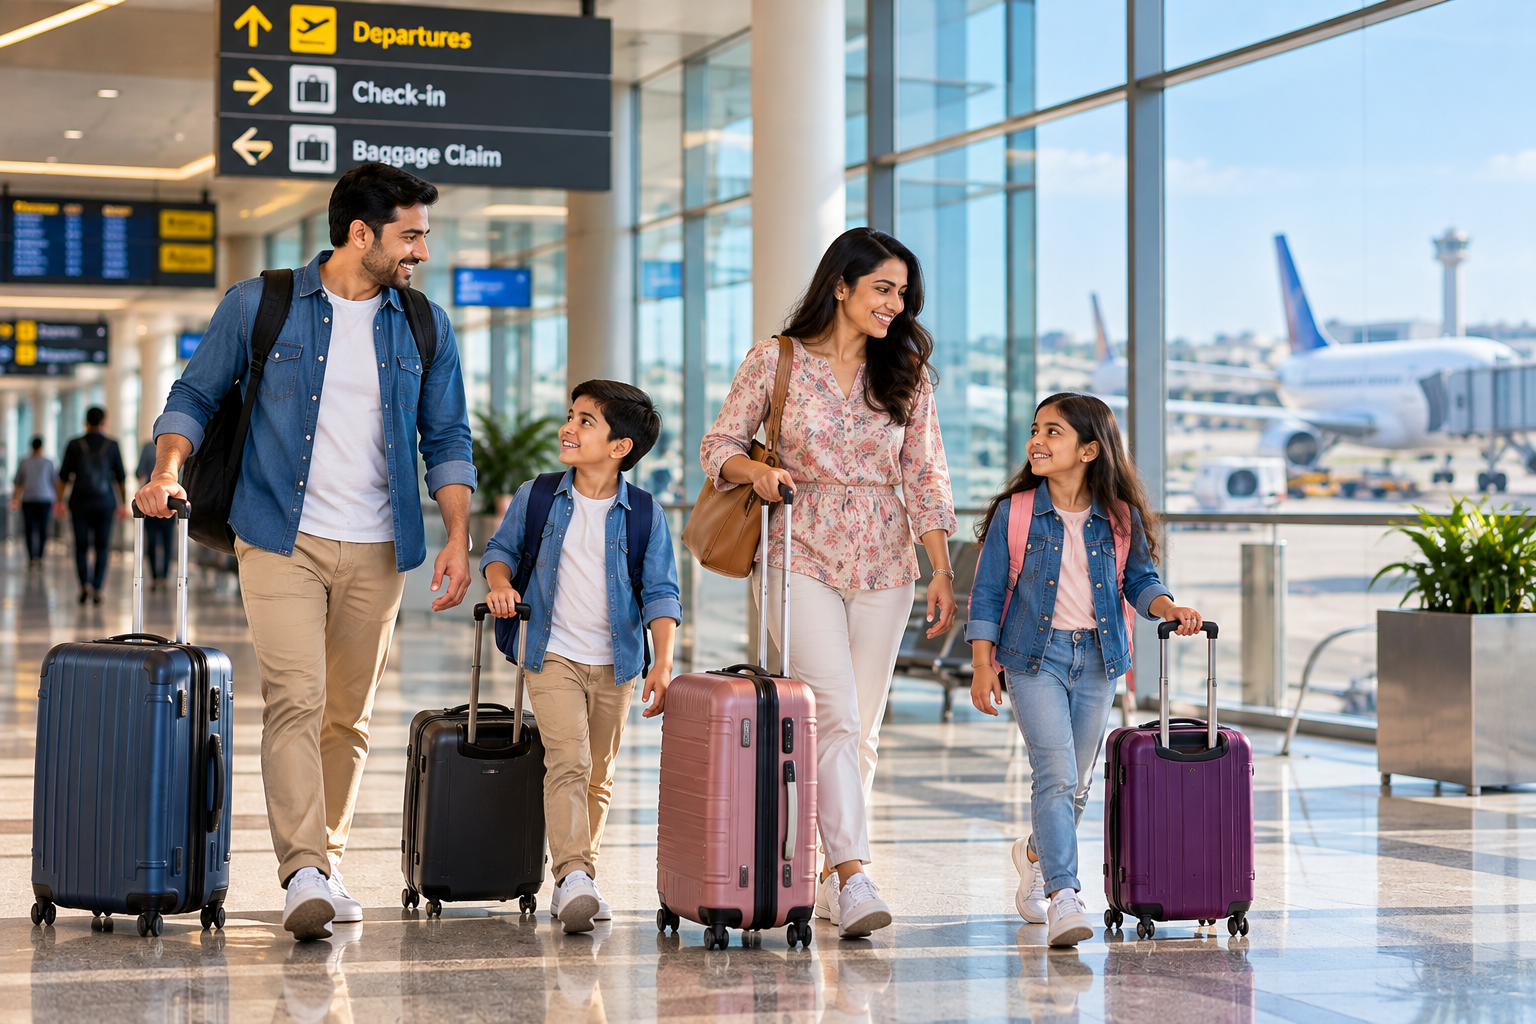
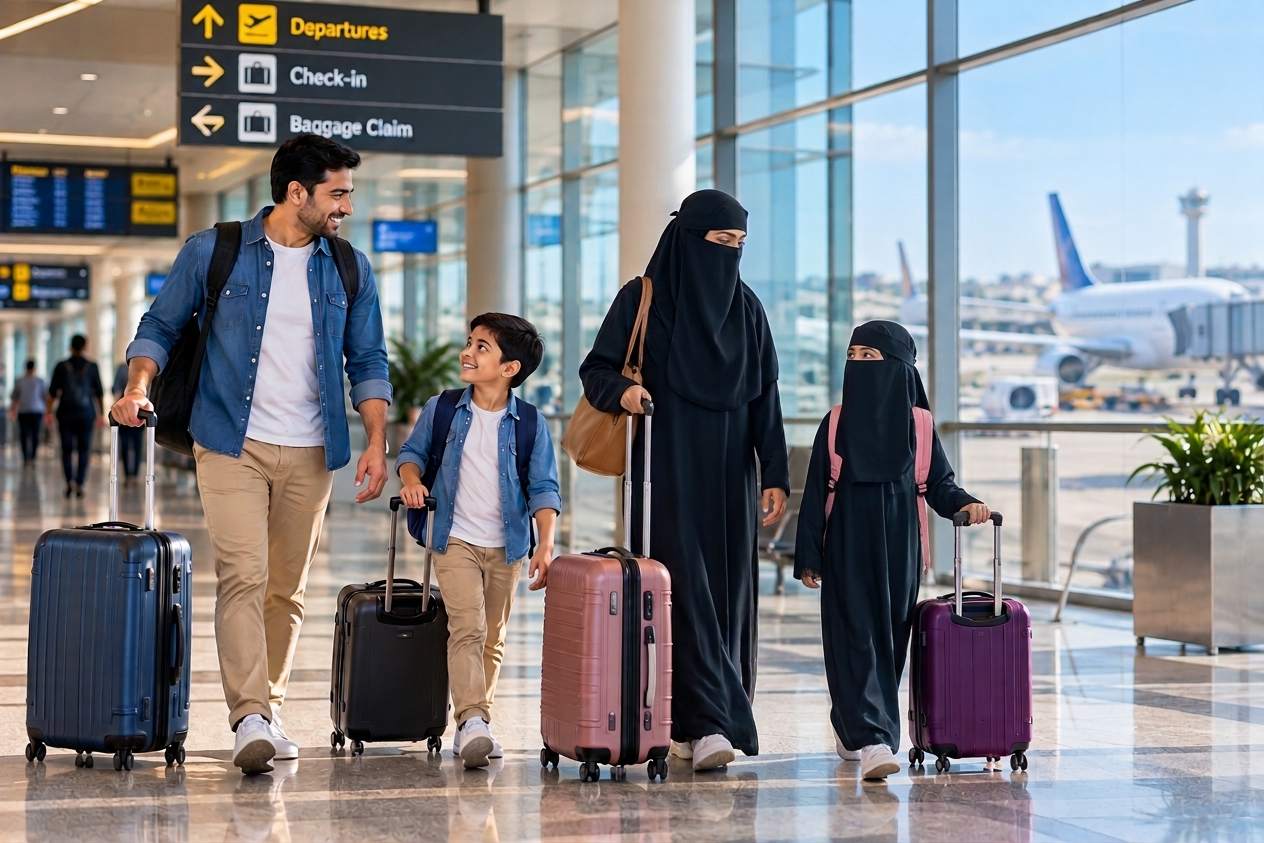
feat: Introduce Find Study Program and Help Partner Institutions sections
Adds two new sections to the homepage: 'Find Study Program' and 'Help Partner Institutions'.

The 'Find Study Program' section assists international students in discovering suitable academic programs, emphasizing ease of application, a wide range of choices, and a higher success rate.

The 'Help Partner Institutions' section focuses on how the organization supports educational institutions, highlighting student recruitment, marketing, and operational benefits.

This commit also includes new images to support these sections and updates the main page component to integrate them.

diff --git a/src/views/home/HelpPartnerInstitutions.tsx b/src/views/home/HelpPartnerInstitutions.tsx
@@ -1,0 +1,174 @@
+import Image from "next/image";
+import Link from "next/link";
+import React from "react";
+
+type Feature = {
+  title: string;
+  description: string;
+  icon: React.ReactNode;
+};
+
+const features: Feature[] = [
+  {
+    title: "Diversify your enrolment",
+    description: "Reach students from 180+ nationalities around the world.",
+    icon: (
+      <path d="M12 2a10 10 0 1 0 0 20 10 10 0 0 0 0-20Zm6.9 6h-2.9a15.7 15.7 0 0 0-1.4-3.6A8 8 0 0 1 18.9 8ZM12 4c.8 1.2 1.5 2.5 1.9 4h-3.8c.4-1.5 1.1-2.8 1.9-4ZM4.3 14a8.2 8.2 0 0 1 0-4h3.4a16.5 16.5 0 0 0 0 4H4.3Zm.8 2h2.9c.3 1.3.8 2.5 1.4 3.6A8 8 0 0 1 5.1 16ZM8 8H5.1a8 8 0 0 1 4.3-3.6C8.8 5.5 8.4 6.7 8 8Zm4 12c-.8-1.2-1.5-2.5-1.9-4h3.8c-.4 1.5-1.1 2.8-1.9 4Zm2.3-6H9.7a14.7 14.7 0 0 1 0-4h4.6a14.7 14.7 0 0 1 0 4Zm.3 5.6c.6-1.1 1.1-2.3 1.4-3.6h2.9a8 8 0 0 1-4.3 3.6Zm1.7-5.6a16.5 16.5 0 0 0 0-4h3.4a8.2 8.2 0 0 1 0 4h-3.4Z" />
+    ),
+  },
+  {
+    title: "Higher quality applications",
+    description: "Pre-screened, complete files that improve conversion by 10%.",
+    icon: (
+      <path d="M6 2h9l5 5v13a2 2 0 0 1-2 2H6a2 2 0 0 1-2-2V4a2 2 0 0 1 2-2Zm8 1.5V8h4.5L14 3.5ZM10.6 17.4l5.7-5.7-1.4-1.4-4.3 4.3-1.9-1.9-1.4 1.4 3.3 3.3Z" />
+    ),
+  },
+  {
+    title: "Less manual processing",
+    description: "Proven technology that cuts manual work by 40% and saves time.",
+    icon: (
+      <path d="M13 2 4 14h7l-1 8 9-12h-7l1-8Z" />
+    ),
+  },
+];
+
+const fadeUp =
+  "animate-[partnerFadeUp_0.8s_cubic-bezier(0.22,1,0.36,1)_both] motion-reduce:animate-none";
+
+export default function HelpPartnerInstitutions() {
+  return (
+    <section className="w-full bg-[#FFFEFA] px-6 py-20">
+      <style>{`
+        @keyframes partnerFadeUp {
+          from { opacity: 0; transform: translateY(24px); }
+          to   { opacity: 1; transform: translateY(0); }
+        }
+      `}</style>
+
+      <div className="mx-auto container grid grid-cols-1 items-center gap-14 lg:grid-cols-2 lg:gap-16">
+        {/* Image collage (left on desktop, mirrors the "Find Your Perfect Study Program" section) */}
+        <div
+          className={`order-2 grid h-[440px] grid-cols-[1fr_1.4fr] gap-4 sm:h-[540px] lg:order-1 lg:h-[600px] ${fadeUp}`}
+          style={{ animationDelay: "150ms" }}>
+          <div className="flex flex-col gap-4">
+            {/* Stat card */}
+            <div className="relative flex flex-1 flex-col justify-between overflow-hidden rounded-[2rem] bg-linear-to-br from-[#14B08C] to-[#0B7A64] p-5 text-white sm:p-7">
+              <span
+                aria-hidden
+                className="absolute -right-10 -top-10 h-36 w-36 rotate-45 rounded-[2rem] border-[18px] border-white/10"
+              />
+              <span
+                aria-hidden
+                className="absolute -bottom-14 -left-8 h-32 w-32 rotate-45 rounded-[1.5rem] bg-white/5"
+              />
+              <span className="relative flex h-11 w-11 items-center justify-center rounded-xl bg-white/15">
+                <svg width="22" height="22" viewBox="0 0 24 24" fill="currentColor">
+                  {features[0].icon}
+                </svg>
+              </span>
+              <div className="relative">
+                <p className="text-4xl font-bold tracking-tight sm:text-5xl">
+                  150+
+                </p>
+                <p className="mt-1 text-sm text-white/85 sm:text-base">
+                  Student Nationalities
+                </p>
+              </div>
+            </div>
+
+            <div className="relative flex-[1.3] overflow-hidden rounded-[2rem]">
+              <Image
+                src="/How%20We%20Help%20Partner%20Institutions%202.png"
+                alt="University admissions officer working on a laptop"
+                fill
+                sizes="(min-width: 1024px) 20vw, 40vw"
+                className="object-cover object-top"
+              />
+            </div>
+          </div>
+
+          <div className="relative overflow-hidden rounded-[2rem] bg-[#14B08C]">
+            <Image
+              src="/How%20We%20Help%20Partner%20Institutions%201.png"
+              alt="Partner institution representative reviewing applications on a tablet"
+              fill
+              sizes="(min-width: 1024px) 30vw, 58vw"
+              className="object-cover object-top"
+            />
+            {/* Floating badge */}
+            <div className="absolute bottom-4 left-4 right-4 flex items-center gap-3 rounded-2xl bg-white/90 p-3 shadow-lg backdrop-blur-md sm:bottom-5 sm:left-auto sm:right-5">
+              <span className="flex h-10 w-10 shrink-0 items-center justify-center rounded-full bg-[#F58B0F] text-white">
+                <svg width="20" height="20" viewBox="0 0 24 24" fill="currentColor">
+                  <path d="M3 17.6 9 11.5l4 4L21 7.4V12h2V4h-8v2h4.6L13 12.7l-4-4-7.4 7.5L3 17.6Z" />
+                </svg>
+              </span>
+              <div className="leading-tight">
+                <p className="text-sm font-bold text-[#1B1B1B]">+10%</p>
+                <p className="text-xs text-[#6B6B6B]">Higher conversion</p>
+              </div>
+            </div>
+          </div>
+        </div>
+
+        {/* Text */}
+        <div className={`order-1 lg:order-2 ${fadeUp}`}>
+          <p className="inline-flex items-center gap-2 text-xs font-bold uppercase tracking-widest text-[#1366E0]">
+            <span className="h-px w-8 bg-[#1366E0]" />
+            Partner Institutions
+          </p>
+          <h2 className="mt-3 text-3xl font-semibold leading-tight tracking-tight text-[#1B1B1B] sm:text-4xl lg:text-[2.75rem]">
+            How We Help{" "}
+            <span className="text-[#1366E0]">Partner Institutions</span>
+          </h2>
+          <p className="mt-4 max-w-xl text-base leading-relaxed text-[#6B6B6B]">
+            Grow a diverse, high-quality international intake while spending
+            less time on paperwork. We handle the heavy lifting so your team
+            can focus on admitting the right students.
+          </p>
+
+          <ul className="mt-8 flex flex-col gap-3">
+            {features.map((feature) => (
+              <li
+                key={feature.title}
+                className="group flex items-start gap-4 rounded-2xl border border-black/5 bg-white p-4 shadow-sm shadow-black/2 transition-all duration-300 hover:-translate-y-0.5 hover:border-[#14B08C]/25 hover:shadow-md">
+                <span className="flex h-11 w-11 shrink-0 items-center justify-center rounded-xl bg-[#14B08C]/10 text-[#0B7A64] transition-colors duration-300 group-hover:bg-[#14B08C] group-hover:text-white">
+                  <svg width="22" height="22" viewBox="0 0 24 24" fill="currentColor">
+                    {feature.icon}
+                  </svg>
+                </span>
+                <div>
+                  <h3 className="text-base font-semibold text-[#1B1B1B]">
+                    {feature.title}
+                  </h3>
+                  <p className="mt-0.5 text-sm leading-relaxed text-[#6B6B6B]">
+                    {feature.description}
+                  </p>
+                </div>
+              </li>
+            ))}
+          </ul>
+
+          <Link
+            href="/institution-partner"
+            className="group mt-8 inline-flex items-center gap-2.5 rounded-full bg-[#1366E0] px-7 py-3.5 text-base font-semibold text-white shadow-lg shadow-[#1366E0]/25 transition-all duration-300 hover:-translate-y-0.5 hover:bg-[#0F55BE] hover:shadow-xl focus:outline-none focus-visible:ring-2 focus-visible:ring-[#1366E0] focus-visible:ring-offset-2">
+            Partner with Us
+            <svg
+              width="18"
+              height="18"
+              viewBox="0 0 24 24"
+              fill="none"
+              className="shrink-0 transition-transform duration-300 group-hover:translate-x-1">
+              <path
+                d="M5 12h14M13 6l6 6-6 6"
+                stroke="currentColor"
+                strokeWidth="2"
+                strokeLinecap="round"
+                strokeLinejoin="round"
+              />
+            </svg>
+          </Link>
+        </div>
+      </div>
+    </section>
+  );
+}

diff --git a/src/views/home/FindStudyProgram.tsx b/src/views/home/FindStudyProgram.tsx
@@ -1,0 +1,174 @@
+import Image from "next/image";
+import Link from "next/link";
+import React from "react";
+
+type Feature = {
+  title: string;
+  description: string;
+  icon: React.ReactNode;
+};
+
+const features: Feature[] = [
+  {
+    title: "Apply to multiple programs",
+    description: "One profile, many applications. No repeated paperwork.",
+    icon: (
+      <path d="M12 6.5C10.3 5.2 7.9 4.5 5 4.5H3v14h2c2.9 0 5.3.7 7 2 1.7-1.3 4.1-2 7-2h2v-14h-2c-2.9 0-5.3.7-7 2Zm-1 11.4c-1.6-.8-3.5-1.3-6-1.4V6.5c2.6.1 4.6.8 6 2v9.4Zm8-1.4c-2.5.1-4.4.6-6 1.4V8.5c1.4-1.2 3.4-1.9 6-2v10Z" />
+    ),
+  },
+  {
+    title: "150,000+ programs to choose from",
+    description: "Find the right fit across five top study destinations.",
+    icon: (
+      <path d="M10.5 3a7.5 7.5 0 0 1 5.9 12.1l4.3 4.3-1.4 1.4-4.3-4.3A7.5 7.5 0 1 1 10.5 3Zm0 2a5.5 5.5 0 1 0 0 11 5.5 5.5 0 0 0 0-11Z" />
+    ),
+  },
+  {
+    title: "Higher chance of success",
+    description: "Every application is quality-checked with AI-assisted reviews.",
+    icon: (
+      <path d="M4 20V10h3v10H4Zm6.5 0V4h3v16h-3ZM17 20v-7h3v7h-3Z" />
+    ),
+  },
+];
+
+const fadeUp =
+  "animate-[studyFadeUp_0.8s_cubic-bezier(0.22,1,0.36,1)_both] motion-reduce:animate-none";
+
+export default function FindStudyProgram() {
+  return (
+    <section className="w-full bg-[#FFFEFA] px-6 py-20">
+      <style>{`
+        @keyframes studyFadeUp {
+          from { opacity: 0; transform: translateY(24px); }
+          to   { opacity: 1; transform: translateY(0); }
+        }
+      `}</style>
+
+      <div className="mx-auto container grid grid-cols-1 items-center gap-14 lg:grid-cols-2 lg:gap-16">
+        {/* Text */}
+        <div className={fadeUp}>
+          <p className="inline-flex items-center gap-2 text-xs font-bold uppercase tracking-widest text-[#1366E0]">
+            <span className="h-px w-8 bg-[#1366E0]" />
+            International Students
+          </p>
+          <h2 className="mt-3 text-3xl font-semibold leading-tight tracking-tight text-[#1B1B1B] sm:text-4xl lg:text-[2.75rem]">
+            Find Your Perfect{" "}
+            <span className="text-[#1366E0]">Study Program</span>
+          </h2>
+          <p className="mt-4 max-w-xl text-base leading-relaxed text-[#6B6B6B]">
+            We&apos;ve spent a decade perfecting a faster, easier, quality-first
+            international study application process. Now, the world is yours
+            to explore in just a few clicks.
+          </p>
+
+          <ul className="mt-8 flex flex-col gap-3">
+            {features.map((feature) => (
+              <li
+                key={feature.title}
+                className="group flex items-start gap-4 rounded-2xl border border-black/5 bg-white p-4 shadow-sm shadow-black/2 transition-all duration-300 hover:-translate-y-0.5 hover:border-[#1366E0]/20 hover:shadow-md">
+                <span className="flex h-11 w-11 shrink-0 items-center justify-center rounded-xl bg-[#1366E0]/10 text-[#1366E0] transition-colors duration-300 group-hover:bg-[#1366E0] group-hover:text-white">
+                  <svg width="22" height="22" viewBox="0 0 24 24" fill="currentColor">
+                    {feature.icon}
+                  </svg>
+                </span>
+                <div>
+                  <h3 className="text-base font-semibold text-[#1B1B1B]">
+                    {feature.title}
+                  </h3>
+                  <p className="mt-0.5 text-sm leading-relaxed text-[#6B6B6B]">
+                    {feature.description}
+                  </p>
+                </div>
+              </li>
+            ))}
+          </ul>
+
+          <Link
+            href="/auth/register"
+            className="group mt-8 inline-flex items-center gap-2.5 rounded-full bg-[#1366E0] px-7 py-3.5 text-base font-semibold text-white shadow-lg shadow-[#1366E0]/25 transition-all duration-300 hover:-translate-y-0.5 hover:bg-[#0F55BE] hover:shadow-xl focus:outline-none focus-visible:ring-2 focus-visible:ring-[#1366E0] focus-visible:ring-offset-2">
+            Create a Student Account
+            <svg
+              width="18"
+              height="18"
+              viewBox="0 0 24 24"
+              fill="none"
+              className="shrink-0 transition-transform duration-300 group-hover:translate-x-1">
+              <path
+                d="M5 12h14M13 6l6 6-6 6"
+                stroke="currentColor"
+                strokeWidth="2"
+                strokeLinecap="round"
+                strokeLinejoin="round"
+              />
+            </svg>
+          </Link>
+        </div>
+
+        {/* Image collage */}
+        <div
+          className={`grid h-[440px] grid-cols-[1.4fr_1fr] gap-4 sm:h-[540px] lg:h-[600px] ${fadeUp}`}
+          style={{ animationDelay: "150ms" }}>
+          <div className="relative overflow-hidden rounded-[2rem]">
+            <Image
+              src="/Find%20Your%20Perfect%20Study%20Program%201.png"
+              alt="Smiling student holding books, ready to study abroad"
+              fill
+              sizes="(min-width: 1024px) 30vw, 58vw"
+              className="object-cover object-top"
+            />
+            {/* Floating badge */}
+            <div className="absolute bottom-4 left-4 right-4 flex items-center gap-3 rounded-2xl bg-white/90 p-3 shadow-lg backdrop-blur-md sm:bottom-5 sm:left-5 sm:right-auto">
+              <span className="flex h-10 w-10 shrink-0 items-center justify-center rounded-full bg-[#F58B0F] text-white">
+                <svg width="20" height="20" viewBox="0 0 24 24" fill="currentColor">
+                  <path d="M12 2 2 8l10 5 8-4v6h2V8L12 2Zm-6 10v4c0 1.66 2.69 3 6 3s6-1.34 6-3v-4l-6 3-6-3Z" />
+                </svg>
+              </span>
+              <div className="leading-tight">
+                <p className="text-sm font-bold text-[#1B1B1B]">150,000+</p>
+                <p className="text-xs text-[#6B6B6B]">Programs worldwide</p>
+              </div>
+            </div>
+          </div>
+
+          <div className="flex flex-col gap-4">
+            {/* Stat card */}
+            <div className="relative flex flex-1 flex-col justify-between overflow-hidden rounded-[2rem] bg-linear-to-br from-[#1366E0] to-[#0A3FB8] p-5 text-white sm:p-7">
+              <span
+                aria-hidden
+                className="absolute -right-10 -top-10 h-36 w-36 rounded-full border-[18px] border-white/10"
+              />
+              <span
+                aria-hidden
+                className="absolute -bottom-14 -left-8 h-32 w-32 rounded-full bg-white/5"
+              />
+              <span className="relative flex h-11 w-11 items-center justify-center rounded-xl bg-white/15">
+                <svg width="22" height="22" viewBox="0 0 24 24" fill="currentColor">
+                  <path d="M12 2 4 5v6c0 5.5 3.4 10.7 8 12 4.6-1.3 8-6.5 8-12V5l-8-3Zm-1.2 13.4-3.2-3.2 1.4-1.4 1.8 1.8 4.6-4.6 1.4 1.4-6 6Z" />
+                </svg>
+              </span>
+              <div className="relative">
+                <p className="text-4xl font-bold tracking-tight sm:text-5xl">
+                  95%
+                </p>
+                <p className="mt-1 text-sm text-white/80 sm:text-base">
+                  Acceptance Rate
+                </p>
+              </div>
+            </div>
+
+            <div className="relative flex-[1.3] overflow-hidden rounded-[2rem]">
+              <Image
+                src="/Find%20Your%20Perfect%20Study%20Program%202.png"
+                alt="Students reviewing their study application on a tablet"
+                fill
+                sizes="(min-width: 1024px) 20vw, 40vw"
+                className="object-cover"
+              />
+            </div>
+          </div>
+        </div>
+      </div>
+    </section>
+  );
+}

diff --git a/src/app/page.tsx b/src/app/page.tsx
@@ -12,6 +12,8 @@ import LatestBlogs from "@/views/home/LatestBlogs";
 import WhyChose from "@/views/home/WhyChose";
 // import ContactCta from "@/components/common/ContactCta";
 import HowWeHelp from "@/views/home/HowWeHelp";
+import FindStudyProgram from "@/views/home/FindStudyProgram";
+import HelpPartnerInstitutions from "@/views/home/HelpPartnerInstitutions";
 import VisionTargets from "@/views/home/VisionTargets";
 import TheJourney from "@/views/home/TheJourney";
 import SuccessStoriesGallery from "@/components/common/SuccessStoriesGallery";
@@ -27,6 +29,7 @@ export default function Home() {
       {/* <Accreditations /> */}
       <SuccessStoriesGallery />
       <VisionTargets />
+      <FindStudyProgram />
       <HowWeHelp />
       <UniversityPartner country="United Kingdom" />
       <TheJourney />
@@ -37,6 +40,7 @@ export default function Home() {
       <DreamDestinations />
       {/* <StudentVideoStories />
       <OurPartners /> */}
+      <HelpPartnerInstitutions />
       <LatestBlogs />
       {/* <BranchLocations /> */}
       <FaqSection />
